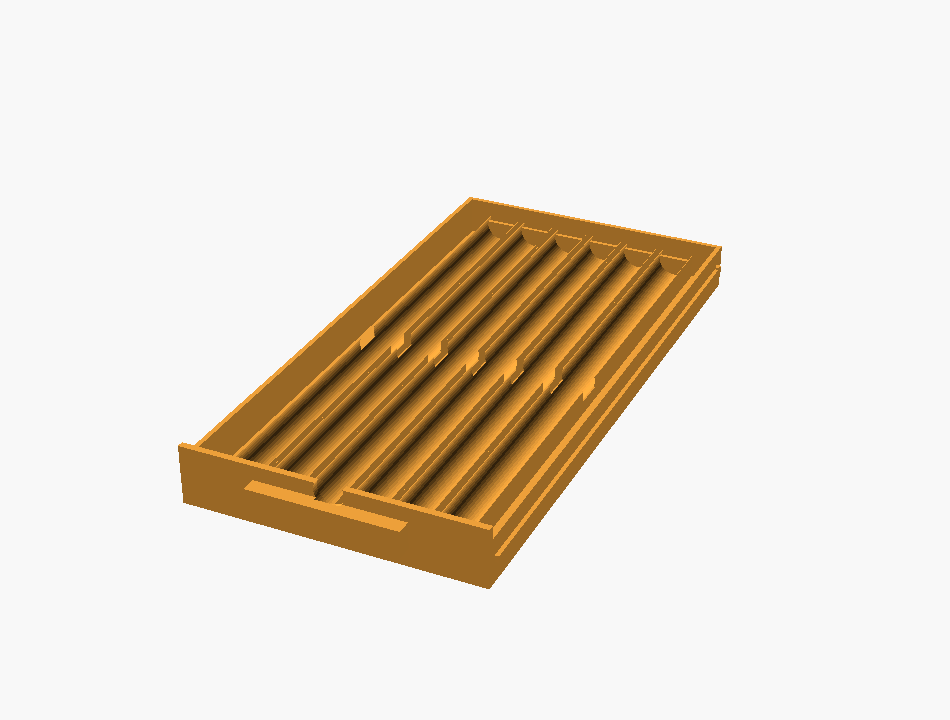
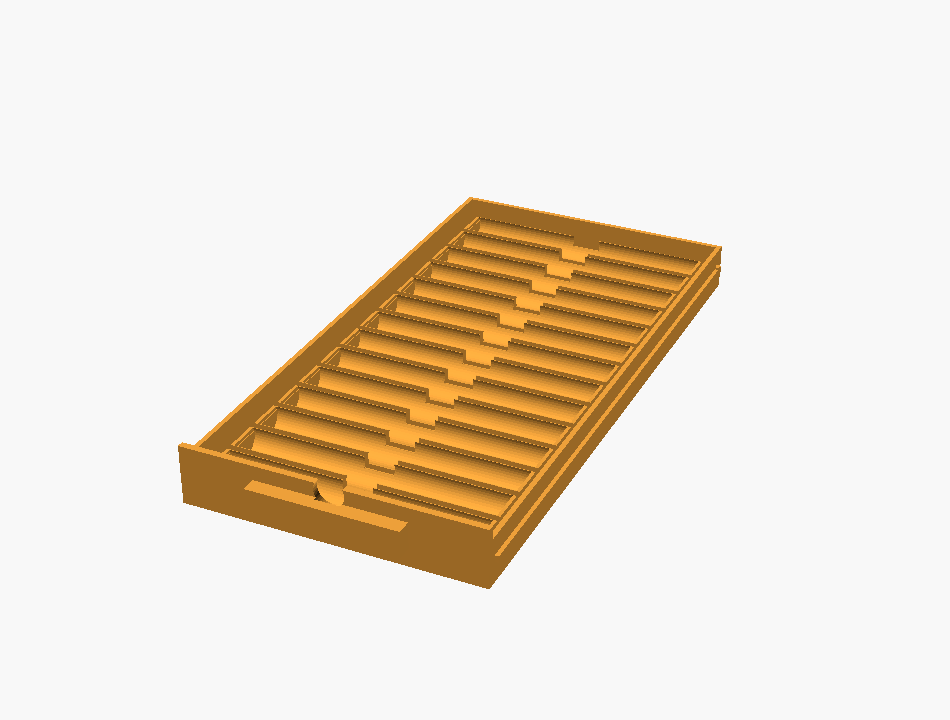
Mixed cabinet: taller vial collar (anti-tip) + pens flipped broadside
- Vial collar raised to 17 mm grip (vials now rest on the drawer floor) so they
  no longer tip; vial bay 56->60 and overall height 134->136 mm to keep shelf
  clearance.
- Pen lanes rotated 90 deg: pens lie across the width (broadside, full length
  facing you), 14 per drawer (28 total), with center lift-dip + end-stops.

https://claude.ai/code/session_01UhH4BWfmpogLCmqpTTciYy

Changed region(s): [[0.2442, 0.3056, 0.7326, 0.7333]]

diff --git a/design/drawers/mixed/compose_mixed.py b/design/drawers/mixed/compose_mixed.py
@@ -28,7 +28,7 @@ items=["1 Real vial Ø22→Ø23.6 pockets","2 Real pen Ø19→Ø20.6 cradles (15
  "15 Modular split (fits any bed)"]
 for i,it in enumerate(items): t(cx+16,566+i*17,it,SUB,11.5)
 # specs strip
-t(20,860,"Capacity (2×3 = 6 drawers):  144 vials (2×72)  ·  12 pen/syringe lanes  ·  12 supply cells",INK,15,"start","600")
+t(20,860,"Capacity (2×3 = 6 drawers):  144 vials (2×72)  ·  28 pens broadside (2×14)  ·  12 supply cells",INK,15,"start","600")
 t(20,886,"Slide: drawer side ribs ride in frame grooves; back-bump + front lip stop the drawer before it falls out.",SUB,13)
 t(20,908,"Print: two side-by-side column modules; each column's drawers split front/back (~185 mm) to fit a normal bed. Add columns to widen.",SUB,13)
 t(20,930,"Fridge-ready: drain holes through every floor so condensation can't pool; open back for airflow.",SUB,13)
